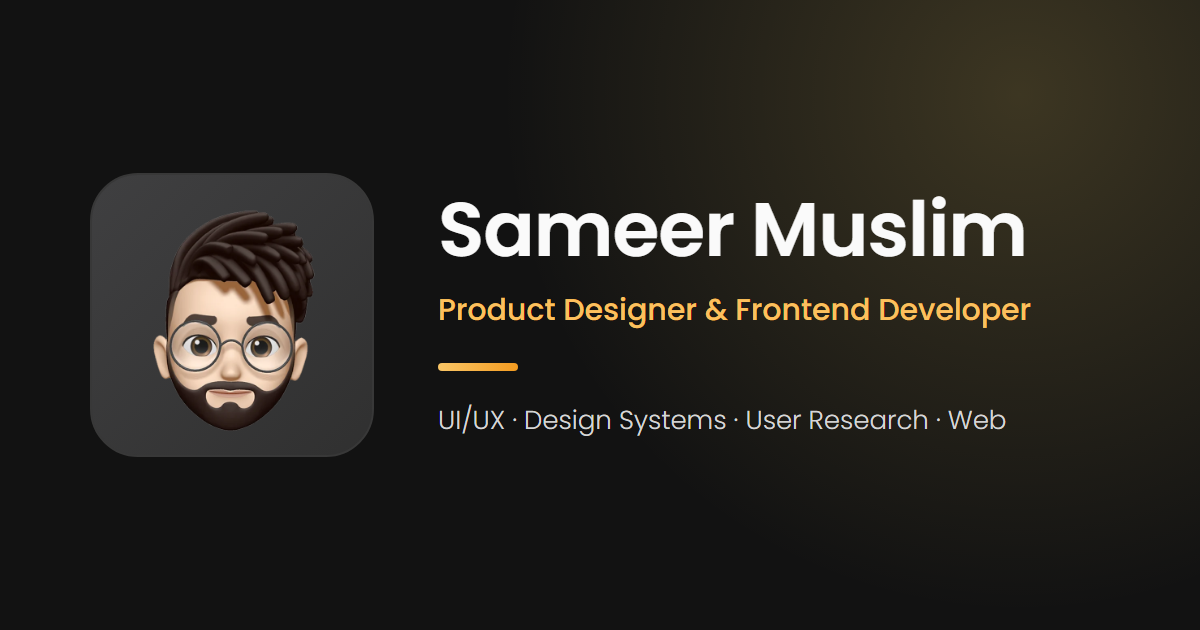
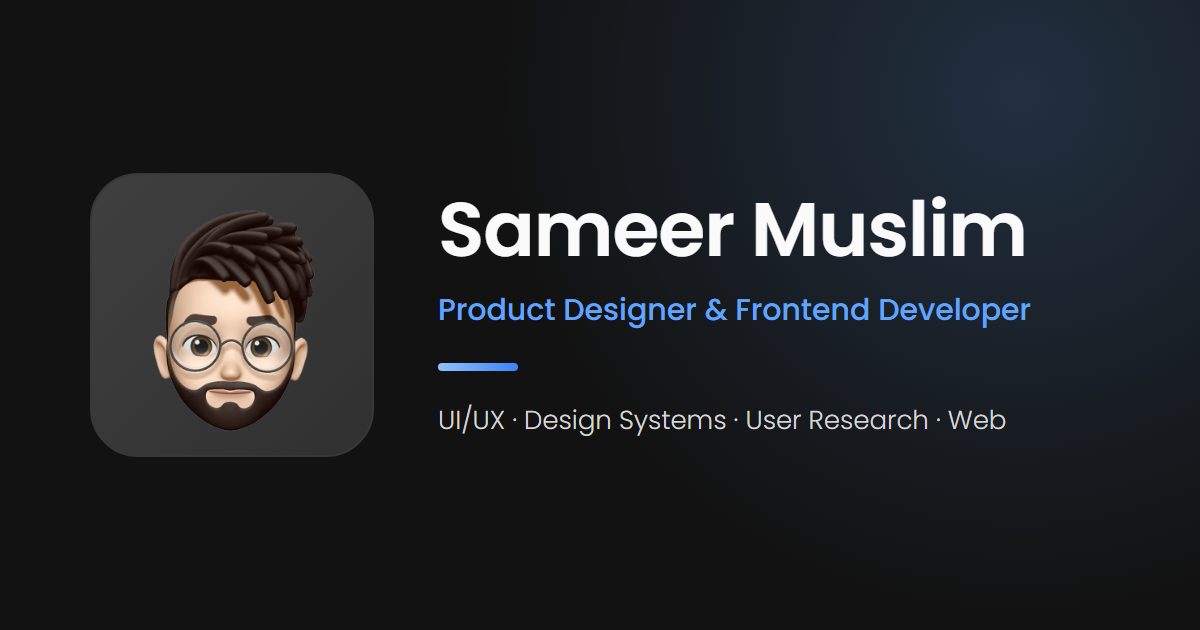
Switch theme accent to ocean blue

Changed region(s): [[0.74, 0.0, 0.9558, 0.3317], [0.3392, 0.4524, 0.8633, 0.5127], [0.37, 0.573, 0.4317, 0.6032]]

diff --git a/css/style.css b/css/style.css
@@ -18,13 +18,13 @@
     hsl(240, 2%, 13%);
   --bg-gradient-yellow-1: linear-gradient(
     to bottom right,
-    hsl(45, 100%, 71%) 0%,
-    hsla(36, 100%, 69%, 0) 50%
+    hsl(213, 94%, 68%) 0%,
+    hsla(217, 91%, 60%, 0) 50%
   );
   --bg-gradient-yellow-2: linear-gradient(
       135deg,
-      hsla(45, 100%, 71%, 0.251) 0%,
-      hsla(35, 100%, 68%, 0) 59.86%
+      hsla(213, 94%, 68%, 0.251) 0%,
+      hsla(217, 91%, 60%, 0) 59.86%
     ),
     hsl(240, 2%, 13%);
   --border-gradient-onyx: linear-gradient(
@@ -39,8 +39,8 @@
   );
   --text-gradient-yellow: linear-gradient(
     to right,
-    hsl(39, 93%, 69%),
-    hsl(35, 90%, 54%)
+    hsl(213, 97%, 78%),
+    hsl(217, 91%, 60%)
   );
 
   /* solid */
@@ -54,20 +54,21 @@
   --smoky-black: hsl(0, 0%, 7%);
   --white-1: hsl(0, 0%, 100%);
   --white-2: hsl(0, 0%, 98%);
-  --orange-yellow-crayola: hsl(45, 100%, 72%);
-  --title-orange-yellow-crayola: hsl(45, 100%, 72%);
-  --text-orange-yellow-crayola: hsl(45, 100%, 72%);
-  --nav-link-active: hsl(45, 100%, 72%);
-  --vegas-gold: hsl(45, 54%, 58%);
+  /* accent: ocean blue (names kept from the original yellow theme) */
+  --orange-yellow-crayola: hsl(213, 94%, 70%);
+  --title-orange-yellow-crayola: hsl(213, 94%, 70%);
+  --text-orange-yellow-crayola: hsl(213, 94%, 70%);
+  --nav-link-active: hsl(213, 94%, 70%);
+  --vegas-gold: hsl(213, 55%, 64%);
   --light-gray: hsl(0, 0%, 84%);
   --light-gray-70: hsla(0, 0%, 84%, 0.7);
   --menu-bar-text: var(--light-gray-70);
   --bittersweet-shimmer: hsl(0, 43%, 51%);
-  --icon-color: #fcc05e;
-  --active-link-color: #fcc05e;
+  --icon-color: #60a5fa;
+  --active-link-color: #60a5fa;
   --map-box-filter: grayscale(1) invert(1);
 
-  --ops-text-color: hsl(45, 100%, 72%);
+  --ops-text-color: hsl(213, 94%, 70%);
   /**
    * typography
    */
@@ -111,48 +112,71 @@
 }
 
 /*
- * Light theme: white cards on a warm paper-gray page, near-black text,
- * and a deeper amber accent so links and titles stay readable on white.
+ * Light theme (ocean blue). Change the palette by editing the --lt-* tokens below;
+ * everything else in light mode is derived from them.
  */
 .light-mode {
-  /* surfaces */
-  --smoky-black: #f3f0ea; /* page background */
-  --eerie-black-2: #ffffff; /* panels */
-  --eerie-black-1: #fffaf0; /* inside icon boxes */
-  --onyx: #f5efe4; /* chips, small buttons */
-  --jet: #e9e3d8; /* borders and dividers */
-  --overlay-background: hsl(30, 20%, 10%);
+  /* neutrals (cool slate) */
+  --lt-page: #f2f5f9; /* page background */
+  --lt-chip: #eef2f8; /* chips, small buttons */
+  --lt-chip-border: #d6deea;
+  --lt-border: #e2e8f0; /* borders and dividers */
+  --lt-ink: #0f172a; /* headings, strong text */
+  --lt-ink-2: #1e293b; /* body */
+  --lt-text: #475569; /* paragraphs */
+  --lt-muted: #64748b; /* labels */
+  --lt-nav: #52607a; /* menu links */
+  --lt-shadow-rgb: 15, 23, 42;
+  --lt-overlay: #0f172a;
 
-  /* text */
-  --white-1: #1f1a14; /* headings, strong text */
-  --white-2: #2b251e; /* body */
-  --light-gray: #4d453c; /* paragraphs */
-  --light-gray-70: #7b7166; /* muted labels */
+  /* accent (ocean blue) */
+  --lt-accent: #2563eb; /* icons */
+  --lt-accent-2: #60a5fa; /* gradient partner */
+  --lt-accent-strong: #1d4ed8; /* text: links, titles, active tab */
+  --lt-tint: #eff5ff; /* light accent fills */
+  --lt-tint-2: #dbe8fe;
+  --lt-tint-strong: #bfd5fd;
+  --lt-tint-soft: #f7faff;
+  --lt-card-1: #ffffff;
+  --lt-card-2: #f8fafd;
+  --lt-line: #bcd2f8; /* accent edge of cards */
+  --lt-line-soft: #d3e1f8; /* menu edge, resume timeline */
 
-  /* accent */
-  --icon-color: #d97706;
-  --active-link-color: #b45309;
-  --title-orange-yellow-crayola: #b45309; /* links, project titles */
-  --text-orange-yellow-crayola: #b45309;
-  --nav-link-active: #b45309;
-  --vegas-gold: #a16207; /* resume dates */
-  --ops-text-color: #7c4a03;
-  --menu-bar-text: #6b6157;
+  /* mapping onto the variables the rest of the stylesheet uses */
+  --smoky-black: var(--lt-page);
+  --eerie-black-2: #ffffff;
+  --eerie-black-1: var(--lt-tint-soft);
+  --onyx: var(--lt-chip);
+  --jet: var(--lt-border);
+  --overlay-background: var(--lt-overlay);
+
+  --white-1: var(--lt-ink);
+  --white-2: var(--lt-ink-2);
+  --light-gray: var(--lt-text);
+  --light-gray-70: var(--lt-muted);
+  --menu-bar-text: var(--lt-nav);
+
+  --icon-color: var(--lt-accent);
+  --active-link-color: var(--lt-accent-strong);
+  --title-orange-yellow-crayola: var(--lt-accent-strong);
+  --text-orange-yellow-crayola: var(--lt-accent-strong);
+  --nav-link-active: var(--lt-accent-strong);
+  --vegas-gold: var(--lt-accent-strong);
+  --ops-text-color: var(--lt-accent-strong);
   --map-box-filter: none;
 
-  --bg-gradient-onyx: linear-gradient(to bottom right, #fdf3e1 0%, #f8e6c4 100%);
-  --bg-gradient-jet: linear-gradient(to bottom right, #fffdf9 0%, #fbf7f0 100%);
-  --border-gradient-onyx: linear-gradient(to bottom right, #f0d6a4 0%, #ece6dc 55%);
-  --bg-gradient-yellow-1: linear-gradient(to bottom right, #fcd88a 0%, #fbe7bf 90%);
-  --text-gradient-yellow: linear-gradient(to right, #f59e0b, #d97706);
+  --bg-gradient-onyx: linear-gradient(to bottom right, var(--lt-tint) 0%, var(--lt-tint-2) 100%);
+  --bg-gradient-jet: linear-gradient(to bottom right, var(--lt-card-1) 0%, var(--lt-card-2) 100%);
+  --border-gradient-onyx: linear-gradient(to bottom right, var(--lt-line) 0%, var(--lt-border) 55%);
+  --bg-gradient-yellow-1: linear-gradient(to bottom right, var(--lt-tint-strong) 0%, var(--lt-tint-2) 90%);
+  --text-gradient-yellow: linear-gradient(to right, var(--lt-accent-2), var(--lt-accent));
   --menu-gradient-onyx: rgba(255, 255, 255, 0.85);
 
-  /* soft, warm shadows instead of gray ones */
-  --shadow-1: 0 2px 10px rgba(80, 55, 20, 0.06);
-  --shadow-2: 0 6px 20px rgba(80, 55, 20, 0.07);
-  --shadow-3: 0 12px 32px rgba(80, 55, 20, 0.08);
-  --shadow-4: 0 12px 30px rgba(80, 55, 20, 0.06);
-  --shadow-5: 0 24px 64px rgba(40, 25, 5, 0.2);
+  --shadow-1: 0 2px 10px rgba(var(--lt-shadow-rgb), 0.06);
+  --shadow-2: 0 6px 20px rgba(var(--lt-shadow-rgb), 0.07);
+  --shadow-3: 0 12px 32px rgba(var(--lt-shadow-rgb), 0.08);
+  --shadow-4: 0 12px 30px rgba(var(--lt-shadow-rgb), 0.06);
+  --shadow-5: 0 24px 64px rgba(var(--lt-shadow-rgb), 0.25);
 
   color: var(--white-2);
 }
@@ -160,22 +184,22 @@
 /* Light theme details that a color variable alone can't express */
 .light-mode .left-side,
 .light-mode .right-side {
-  box-shadow: 0 1px 2px rgba(80, 55, 20, 0.04), 0 10px 30px rgba(80, 55, 20, 0.05);
+  box-shadow: 0 1px 2px rgba(var(--lt-shadow-rgb), 0.04), 0 10px 30px rgba(var(--lt-shadow-rgb), 0.05);
 }
 .light-mode .menu-bar {
-  border-color: #efdcb8;
+  border-color: var(--lt-line-soft);
 }
 .light-mode .mode-toggle-btn {
   background: var(--onyx);
-  border-color: #e3d6c0;
+  border-color: var(--lt-chip-border);
 }
 .light-mode .toggle-mode {
   background: #ffffff;
-  border-color: #e3d6c0;
-  box-shadow: 0 1px 3px rgba(80, 55, 20, 0.18);
+  border-color: var(--lt-chip-border);
+  box-shadow: 0 1px 3px rgba(var(--lt-shadow-rgb), 0.18);
 }
 .light-mode .resume-list-item:not(:last-child)::after {
-  background: #ead9bb;
+  background: var(--lt-line-soft);
 }
 
 *,
